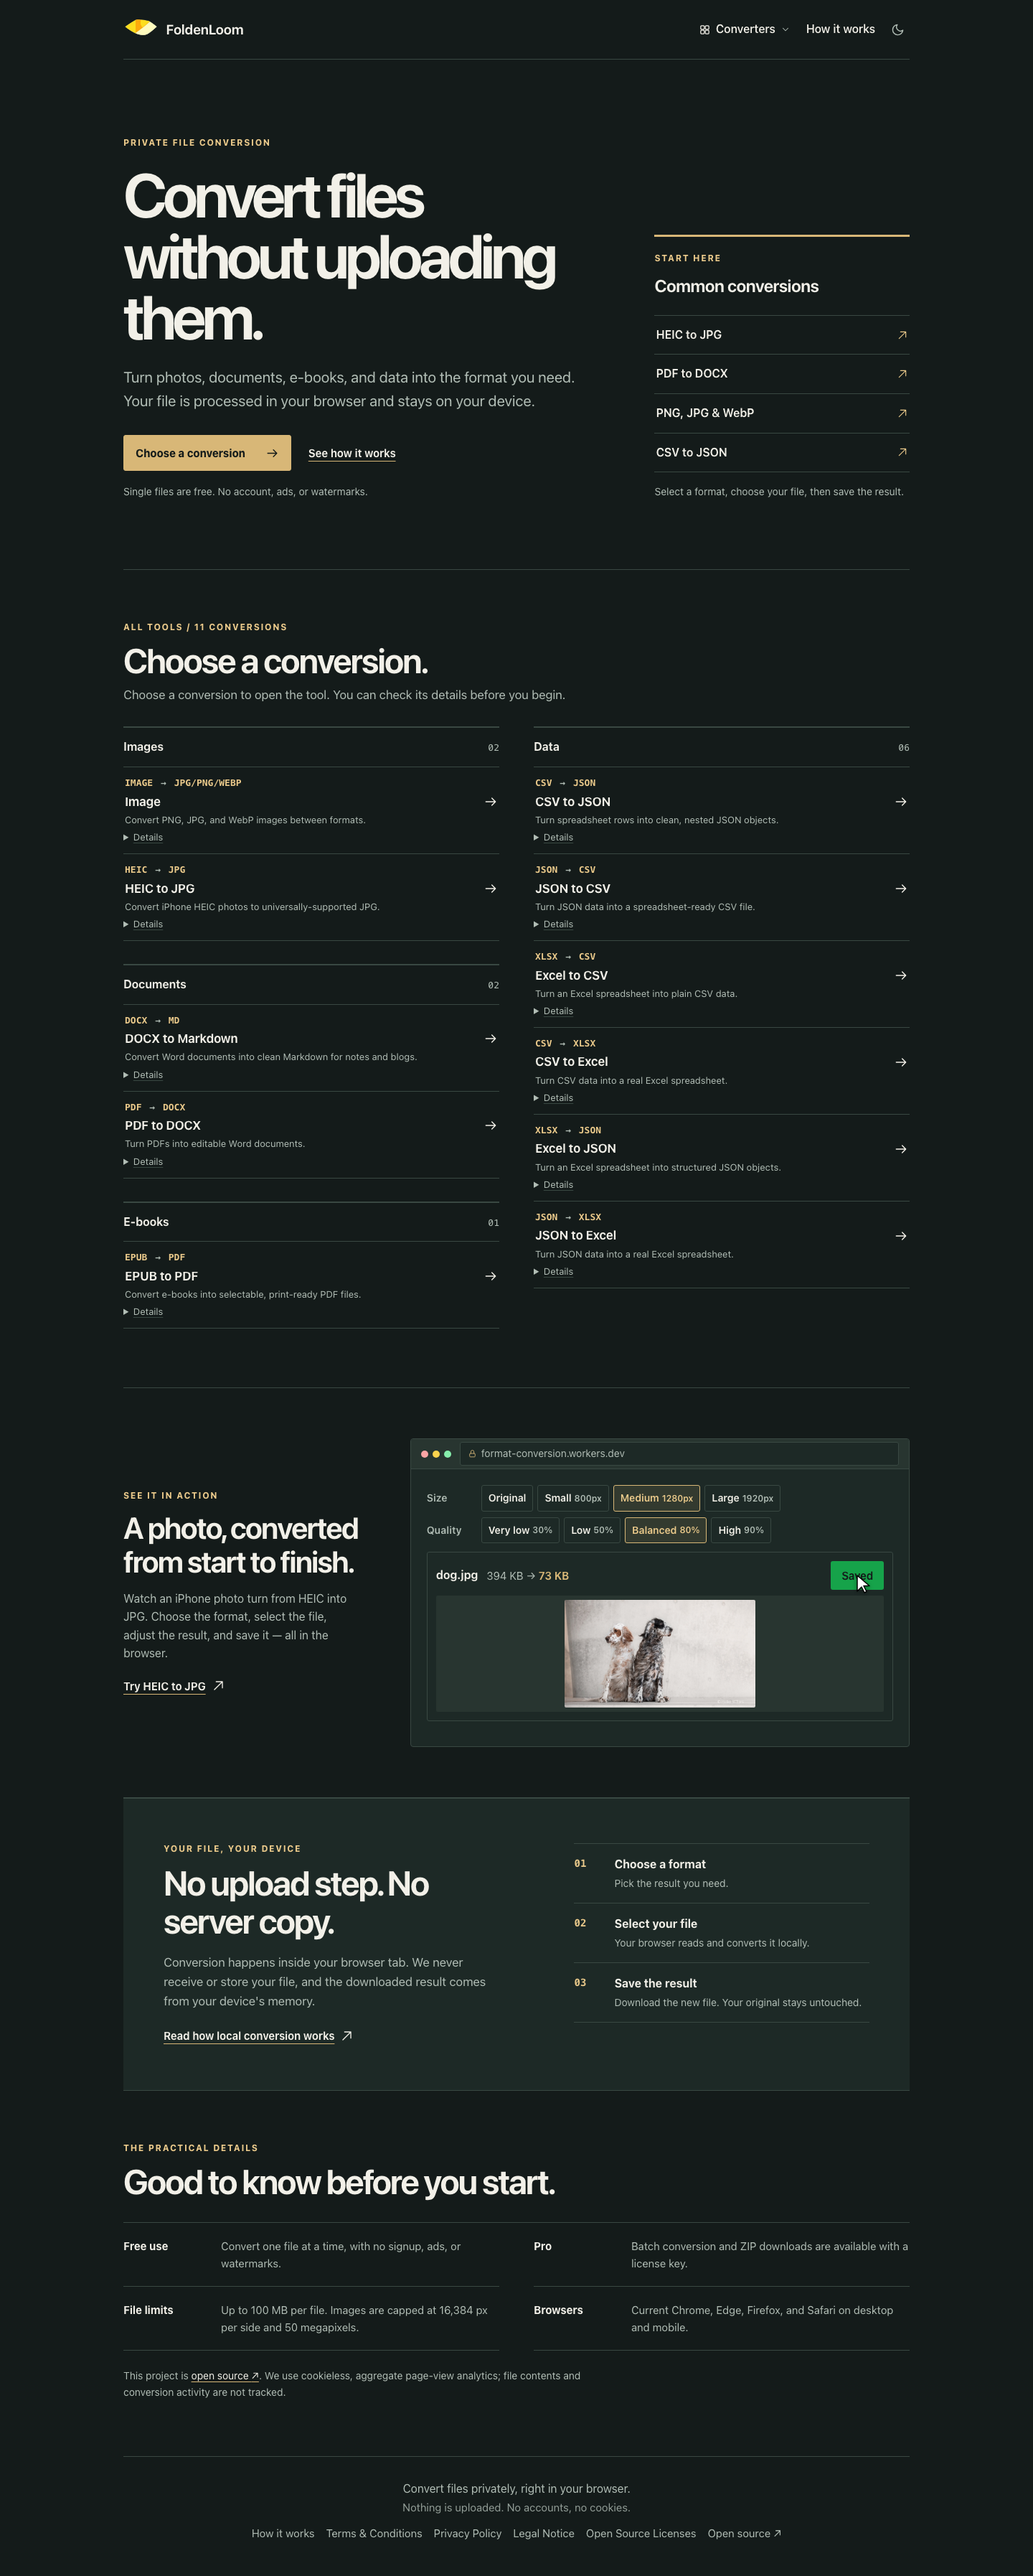
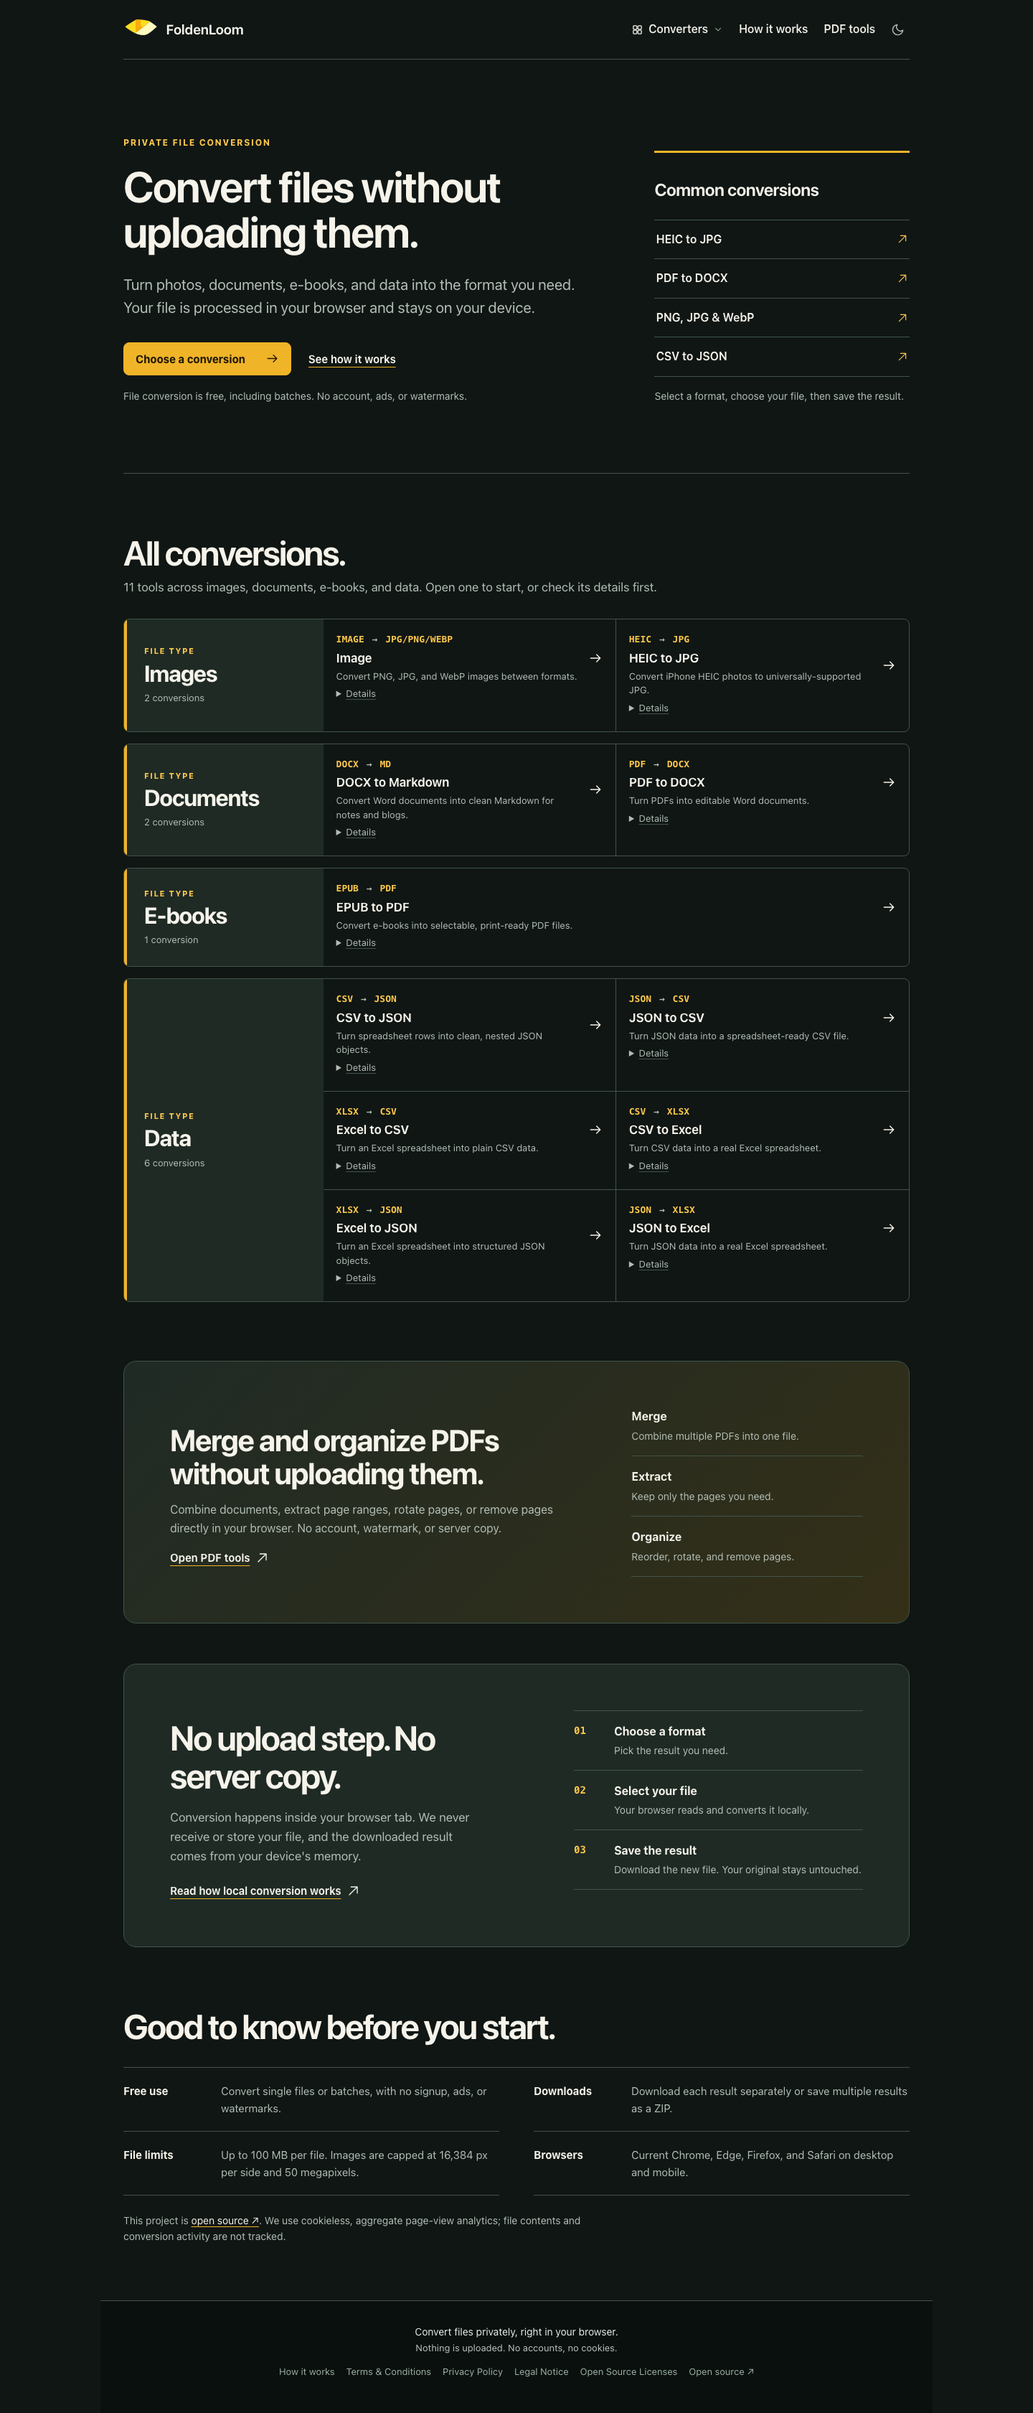
Refresh README screenshots for the redesigned site

diff --git a/README.md b/README.md
@@ -10,7 +10,7 @@ This project is open source (MIT). See [LICENSE](LICENSE).
 ## Screenshots
 
 ### Landing page
-Direct conversion links, a HEIC → JPG animation, local-processing explanation, and practical limits.
+Hero, featured conversions, the full tool directory, PDF tools, and the local-processing rundown.
 
 ![Format Converter landing page](docs/screenshots/landing.png)
 
